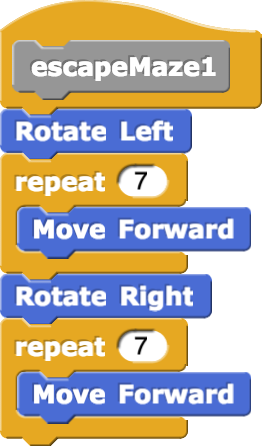
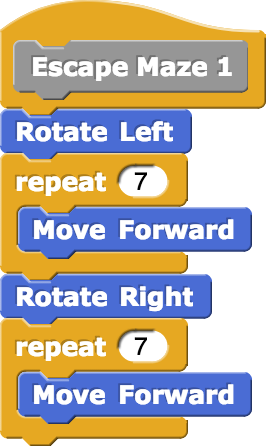
U2L4 Robot camelCase issues resolved

diff --git a/cur/programming/2-complexity/4-abstraction/1-robot-in-a-maze.html b/cur/programming/2-complexity/4-abstraction/1-robot-in-a-maze.html
@@ -8,7 +8,7 @@
     
     <body>
 		<h2>Robot in a Maze</h2>
-        <div class="todo">Please replace all the camel code with multi-word names with spaces. --bh</div>
+        
 		<!--<div class="todo">
             Selim, can you please redo the images with the robot costume? It's in the starter project already, but I didn't build all the solutions... (Don't worry; we own the image; I made it.) Thanks! :) --MF, 5/2/17<br />
             <img class="indent" src="/bjc-r/img/2-complexity/robot_small.png" alt="robot" title="robot" />
@@ -129,10 +129,10 @@
                 <li>
                     Create your own maze and a robot escape code for that maze.
                     <ul>
-                    	<li><strong>Analyze</strong> the <code>drawYourMaze</code> code in the Board sprite (shown below).</li>
+                    	<li><strong>Analyze</strong> the <code>Draw Your Maze</code> code in the Board sprite (shown below).</li>
                         <li><strong>Experiment.</strong> If you change some of the zeros to ones, you can create a path for the robot to travel.</li>
-                        <div class="takeNote">The <var>boardMatrix</var> variable contains  a <strong>list of lists</strong>. Each separate list of zeros and ones will correspond to a row of squares in the maze.</div>
-                        <li>Edit  the <var>boardMatrix</var> to make a maze you like, then write the <code>escapeYourMaze</code> code for the robot.</li>
+                        <div class="takeNote">The <var>board matrix</var> variable contains  a <strong>list of lists</strong>. Each separate list of zeros and ones will correspond to a row of squares in the maze.</div>
+                        <li>Edit  the <var>board matrix</var> to make a maze you like, then write the <code>Escape Your Maze</code> code for the robot.</li>
                     </ul>
                     <img class="indent" src="/bjc-r/img/2-complexity/Robot_img/6_YourMazeCode.png"  height="570" alt="drawYourMaze code" title="drawYourMaze code"/>
             </li>
